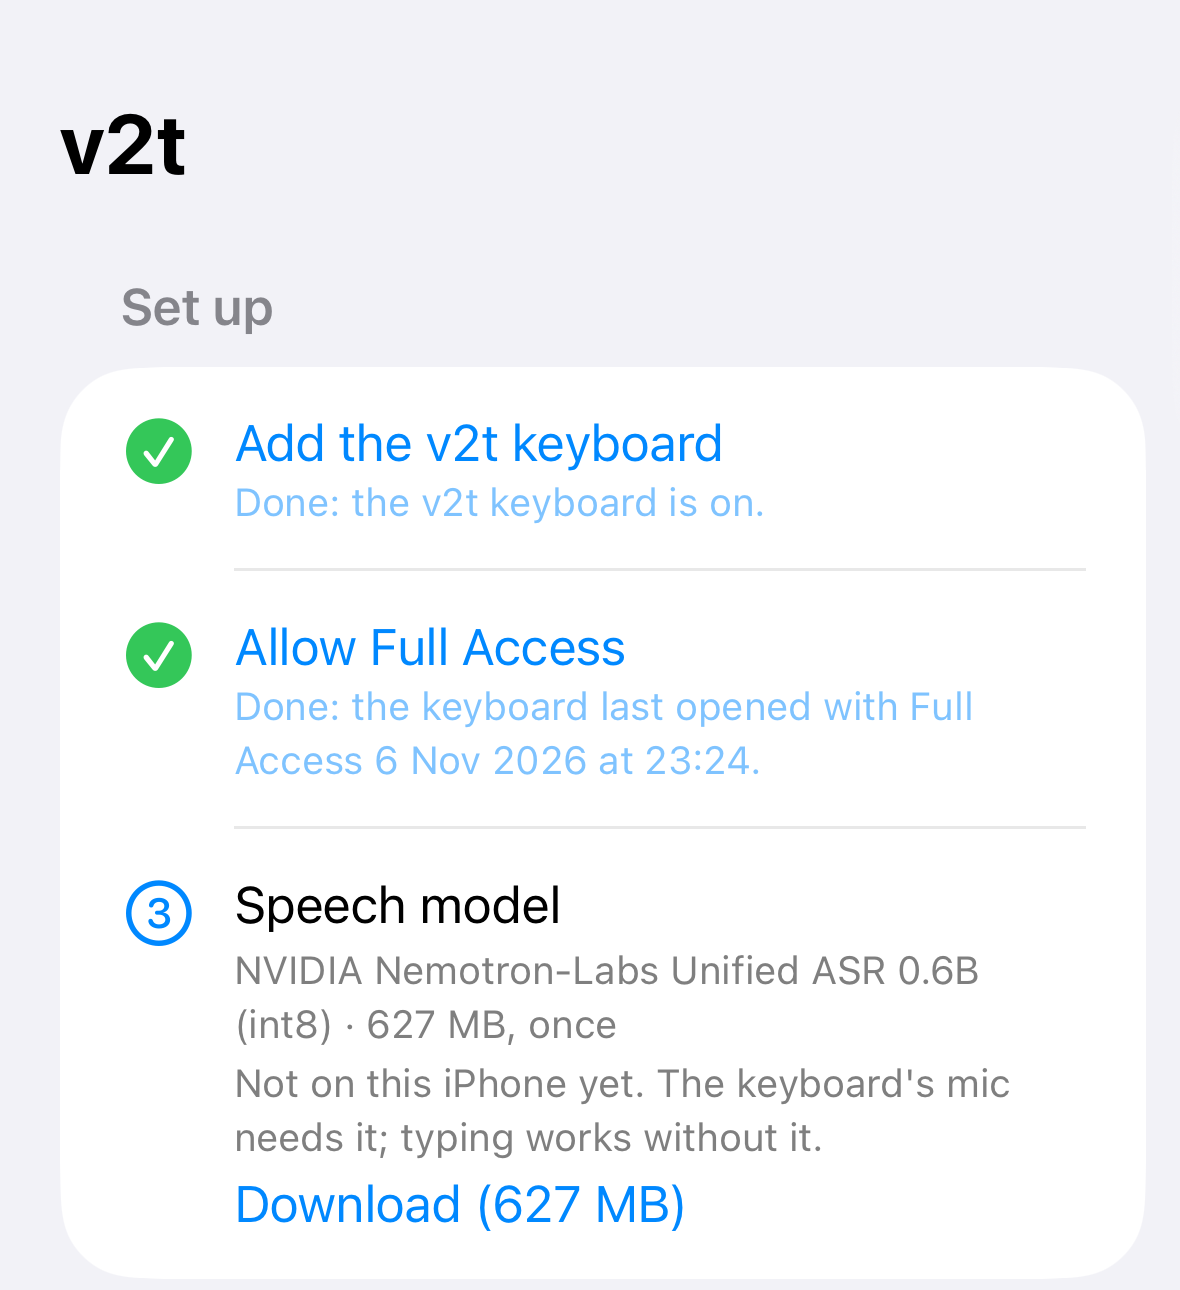
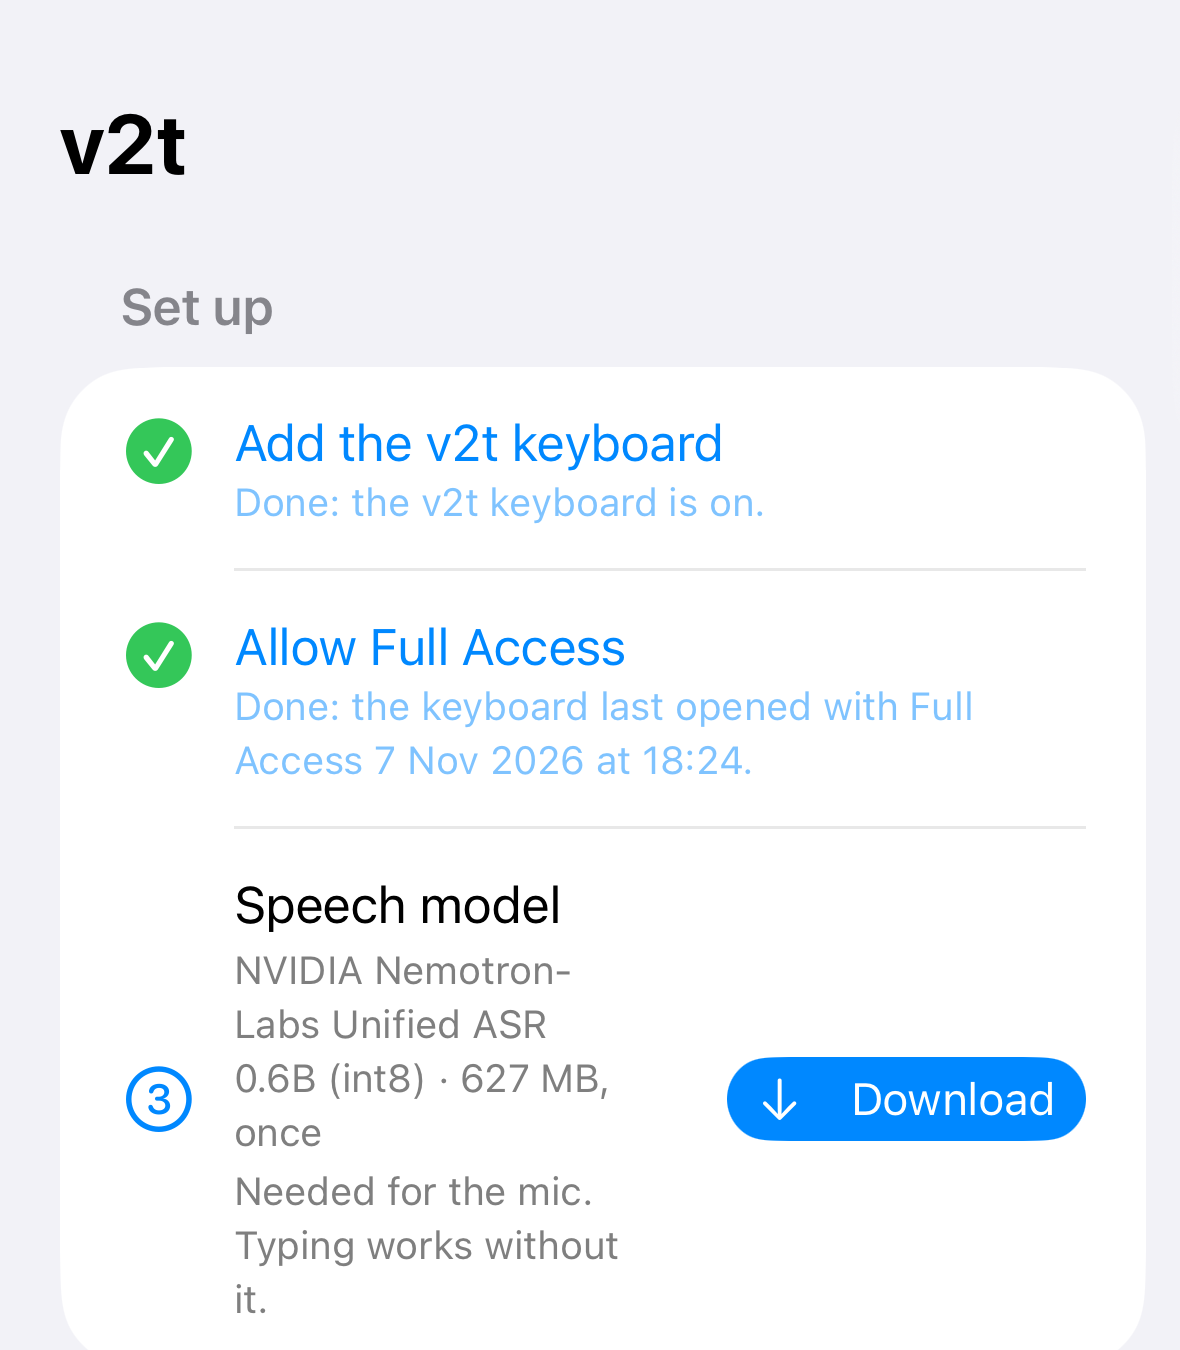
feat(ios): a Download button with an arrow, and shorter model and Storage text
Luis's review of #139: the speech model's Download was blue link text, and
the lines around it and in Storage were long. The not-downloaded row now
ends in a capsule Download button with a down arrow (kept on one line),
says "Needed for the mic. Typing works without it.", and Storage says
"Text only. Audio is never saved." The guide's setup step and Storage
paragraph are shorter too, with fresh screenshots. GuideShotsUITests
checks the button stays whole.

diff --git a/ios/App/V2TApp.swift b/ios/App/V2TApp.swift
@@ -132,7 +132,7 @@ struct SetupRow: View {
 struct ModelRow: View {
   @EnvironmentObject var dictation: DictationService
   var body: some View {
-    HStack(alignment: .top, spacing: 12) {
+    HStack(alignment: dictation.engineState == .notDownloaded ? .center : .top, spacing: 12) {
       Image(systemName: icon).font(.title2).foregroundStyle(color)
       VStack(alignment: .leading, spacing: 4) {
         Text("Speech model").foregroundStyle(.primary)
@@ -147,11 +147,17 @@ struct ModelRow: View {
           Button("Try again") { Task { await dictation.prepareModel() } }
         case .ready: Text("Ready. Transcription runs on this \(dictation.recommendation.deviceName), offline.").font(.footnote).foregroundStyle(.secondary)
         case .notDownloaded:
-          Text("Not on this \(dictation.recommendation.deviceName) yet. The keyboard's mic needs it; typing works without it.")
-            .font(.footnote).foregroundStyle(.secondary)
-          Button("Download (\(dictation.recommendation.downloadMB) MB)") { Task { await dictation.prepareModel() } }
-            .accessibilityIdentifier("v2t.model.download")
+          Text("Needed for the mic. Typing works without it.").font(.footnote).foregroundStyle(.secondary)
         }
+      }
+      if dictation.engineState == .notDownloaded {
+        Spacer(minLength: 8)
+        // a real button at the row's end (a bordered style also keeps the rest of the row from acting as it)
+        Button { Task { await dictation.prepareModel() } } label: { Label("Download", systemImage: "arrow.down") }
+          .labelStyle(.titleAndIcon).fixedSize()  // never wrapped to "Down-load" in a narrow row
+          .buttonStyle(.borderedProminent).buttonBorderShape(.capsule).controlSize(.small)
+          .accessibilityLabel("Download, \(dictation.recommendation.downloadMB) MB")
+          .accessibilityIdentifier("v2t.model.download")
       }
     }
   }
@@ -288,7 +294,7 @@ struct StorageRows: View {
     VStack(alignment: .leading, spacing: 4) {
       LabeledContent("Dictations", value: !history.hasFiles ? "None" : "\(history.items.count) · \(Self.size(history.bytes))")
         .accessibilityIdentifier("v2t.storage.history")
-      Text("History keeps the text only. Audio is never saved: v2t holds it in memory while it transcribes, then drops it.")
+      Text("Text only. Audio is never saved.")
         .font(.footnote).foregroundStyle(.secondary)
       Button("Clear History", role: .destructive) { confirmHistory = true }
         .disabled(!history.hasFiles)

diff --git a/ios/UITests/GuideShotsUITests.swift b/ios/UITests/GuideShotsUITests.swift
@@ -39,6 +39,18 @@ import XCTest
     XCTAssertTrue(app.staticTexts["v2t"].exists, app.debugDescription)
   }
 
+  /// The setup list before the speech model is on the device: its Download button sits at the row's end, whole
+  /// (never wrapped). Needs a Simulator without the model; skipped when it is there.
+  func testSetupRowOffersTheDownload() throws {
+    continueAfterFailure = false
+    app.launch()
+    let download = app.buttons["v2t.model.download"]
+    guard download.waitForExistence(timeout: 20) else { throw XCTSkip("the speech model is on this Simulator") }
+    XCTAssertTrue(download.isHittable)
+    XCTAssertLessThan(download.frame.height, 44, "the Download button wrapped onto two lines")
+    shot("40-setup-download")
+  }
+
   /// The "This iPhone" section: which speech model and cleanup this device gets, and why.
   func testDeviceCardNamesTheModel() {
     continueAfterFailure = false

diff --git a/ios/UITests/ModelStorageUITests.swift b/ios/UITests/ModelStorageUITests.swift
@@ -32,7 +32,7 @@ import XCTest
     let delete = app.buttons["v2t.storage.deleteModel"]
     reveal(delete, in: app)
     XCTAssertTrue(delete.waitForExistence(timeout: 5) && delete.isEnabled, app.debugDescription)
-    XCTAssertTrue(app.staticTexts.matching(NSPredicate(format: "label BEGINSWITH 'History keeps the text only'")).firstMatch.exists)
+    XCTAssertTrue(app.staticTexts.matching(NSPredicate(format: "label == 'Text only. Audio is never saved.'")).firstMatch.exists)
     // the card above Storage links to how the model was chosen (one model, no choice to make)
     XCTAssertTrue(app.descendants(matching: .any)["v2t.model.evaluation"].exists, app.debugDescription)
     shot("30-storage-with-model")

diff --git a/docs/iphone.md b/docs/iphone.md
@@ -44,10 +44,8 @@ section shows what your device got and why, says so when your iPhone model is un
 
 ## Set up
 
-1. Install v2t from TestFlight and open it. Under **Speech model**, tap **Download** (627 or 630 MB,
-   depending on the model your device gets). Typing works without it; the mic needs it. After the
-   download the row shows "Preparing for the Neural Engine…" and then **Ready**. From then on,
-   transcription works offline.
+1. Install v2t from TestFlight, open it and tap **Download** next to **Speech model** (about 630 MB,
+   once). The mic needs it; typing doesn't. When the row says **Ready**, transcription works offline.
 2. Tap **Add the v2t keyboard**. It opens Settings: go to **v2t** › **Keyboards** and turn on
    **v2t**. (General › Keyboard › Keyboards › Add New Keyboard does the same.)
 3. On the same page, turn on **Allow Full Access** and confirm. The keyboard needs Full Access to ask
@@ -59,7 +57,7 @@ section shows what your device got and why, says so when your iPhone model is un
    session is now on, so your first dictation records without the trip to the app described below.
 
 <figure markdown>
-  ![The v2t app's setup list: the keyboard on, Full Access allowed, and the speech model row saying Not on this iPhone yet, with a Download (627 MB) button](images/iphone/setup.png){ width="340" }
+  ![The v2t app's setup list: the keyboard on, Full Access allowed, and the speech model row saying Needed for the mic, with a Download button at its right](images/iphone/setup.png){ width="340" }
   <figcaption>The keyboard is set up; the speech model still needs its download. All screenshots on this page come from the iPhone Simulator, 6 November 2026.</figcaption>
 </figure>
 
@@ -142,13 +140,11 @@ flowchart LR
   delete. Each entry also keeps how long the dictation took; the stopwatch menu copies those timings
   and opens **Compare cleanup**.
 - **Speech language**: English, Español, or Detect.
-- **Storage** shows how much space the speech model and your dictations take. History keeps the text
-  only: v2t never saves audio, it holds it in memory while it transcribes, then drops it. **Clear
-  History** deletes every dictation. **Delete speech model** frees the model's space, its Neural
-  Engine copy included, and dictation stops until you download it again. Both ask first.
+- **Storage** shows the space the speech model and your dictations take, with **Delete speech
+  model** and **Clear History**. Audio is never saved; History keeps text only.
 
 <figure markdown>
-  ![The This iPhone card with its How we chose this model link, then Storage: the speech model at 1.85 GB with Delete speech model, and Dictations with the line that History keeps the text only and audio is never saved](images/iphone/storage.png){ width="340" }
+  ![The This iPhone card with its How we chose this model link, then Storage: the speech model at 1.85 GB with Delete speech model, and Dictations with the line Text only. Audio is never saved.](images/iphone/storage.png){ width="340" }
   <figcaption>The device card and Storage (Clear History sits just below). Sizes are the Simulator's; a phone's may differ.</figcaption>
 </figure>
 
@@ -210,7 +206,7 @@ tap **Stop microphone session**.
 or was deleted. Tap **Download**, then go back to your app and tap the mic again.
 
 <figure markdown>
-  ![v2t's Download the speech model screen: the keyboard's mic needs the speech model first, with a Download (627 MB) button](images/iphone/no-model.png){ width="300" }
+  ![v2t's Download the speech model screen: the keyboard's mic needs the speech model first, with a Download button](images/iphone/no-model.png){ width="300" }
   <figcaption>What the mic opens when the speech model isn't on the device.</figcaption>
 </figure>
 
